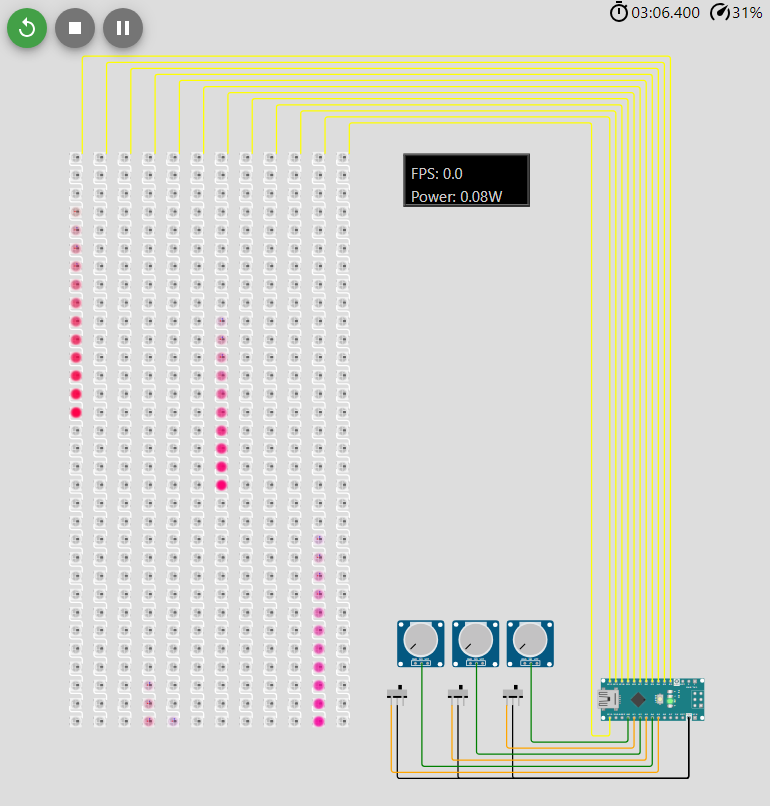
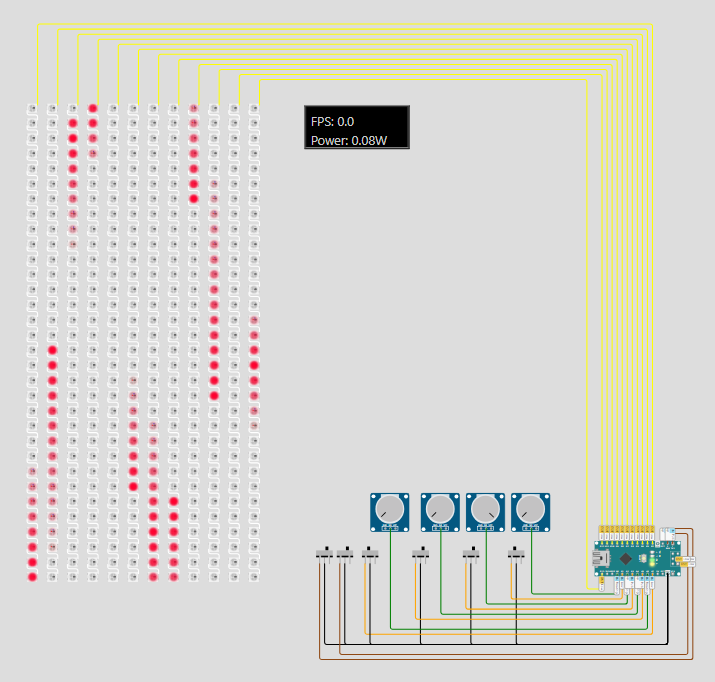
upgrade

Changed region(s): [[0.0, 0.0, 1.0, 0.9853]]

diff --git a/README.md b/README.md
@@ -13,14 +13,26 @@
 
 * переход работы адресной ленты WS2812b от [FastLED](https://github.com/FastLED/FastLED/) к [NeoPixel](https://github.com/adafruit/Adafruit_NeoPixel): появилась поддержка создавать лучи, при этом брать пины из массива, плюс огромная экономия памяти, так как FastLED избыточен для такого простого проекта
 * причесал код (в оригинальном коде совсем непонятные работы с излишними массивам, нет динамического )
-* вынес дополнительные пины в #define в начале кода, работа с дополнительными пинами происходит в отделных функциях
+* вынес дополнительные пины в #define в начале кода, работа с дополнительными пинами происходит в отдельных функциях
 * и да - мой код так же не идеален
 
 Код по эффектам полностью совпадает с оригинальным проектом.
 
-Тестировал и отлаживал на Wemos D1 mini, но будет работать и на Arduino Pro mini.
+Тестировал и отлаживал на [Wokwi](https://wokwi.com/projects/392864539998877697), а так же Wemos D1 mini, но будет работать и на Arduino Pro mini.
 Есть возможность увеличить количество лучей (при использовании расширителя портов ввода-вывода, например PCF8574).
-Изначальное количество светодиодов в ленте мне показалось малым, хороший визуальный эффект возникает при размере 32 светодиода и длиной хвоста 24 пикселя.
+Изначальное количество светодиодов в ленте мне показалось малым, хороший визуальный эффект возникает при размере 32 светодиода и длиной хвоста 24 пикселя (с расчётом на 2к оперативной памяти).
+
+# Возможности
+
+(4 потенциометра с выключателем, 2 выключателя)
+
+* задать тон метеора, или увеличение тона по кругу HSV
+* задать скорость движения метеора, или случайная скорость каждого метеора
+* задать длина метеора, или случайная длина каждого метеора
+* задать задержку между вылетами метеора, или случайная задержка между вылетами каждого метеора
+* задать внешний вид метеора
+* задать направление вылета метеора
+* или отключить в коде все возможности
 
 # Источник
 
